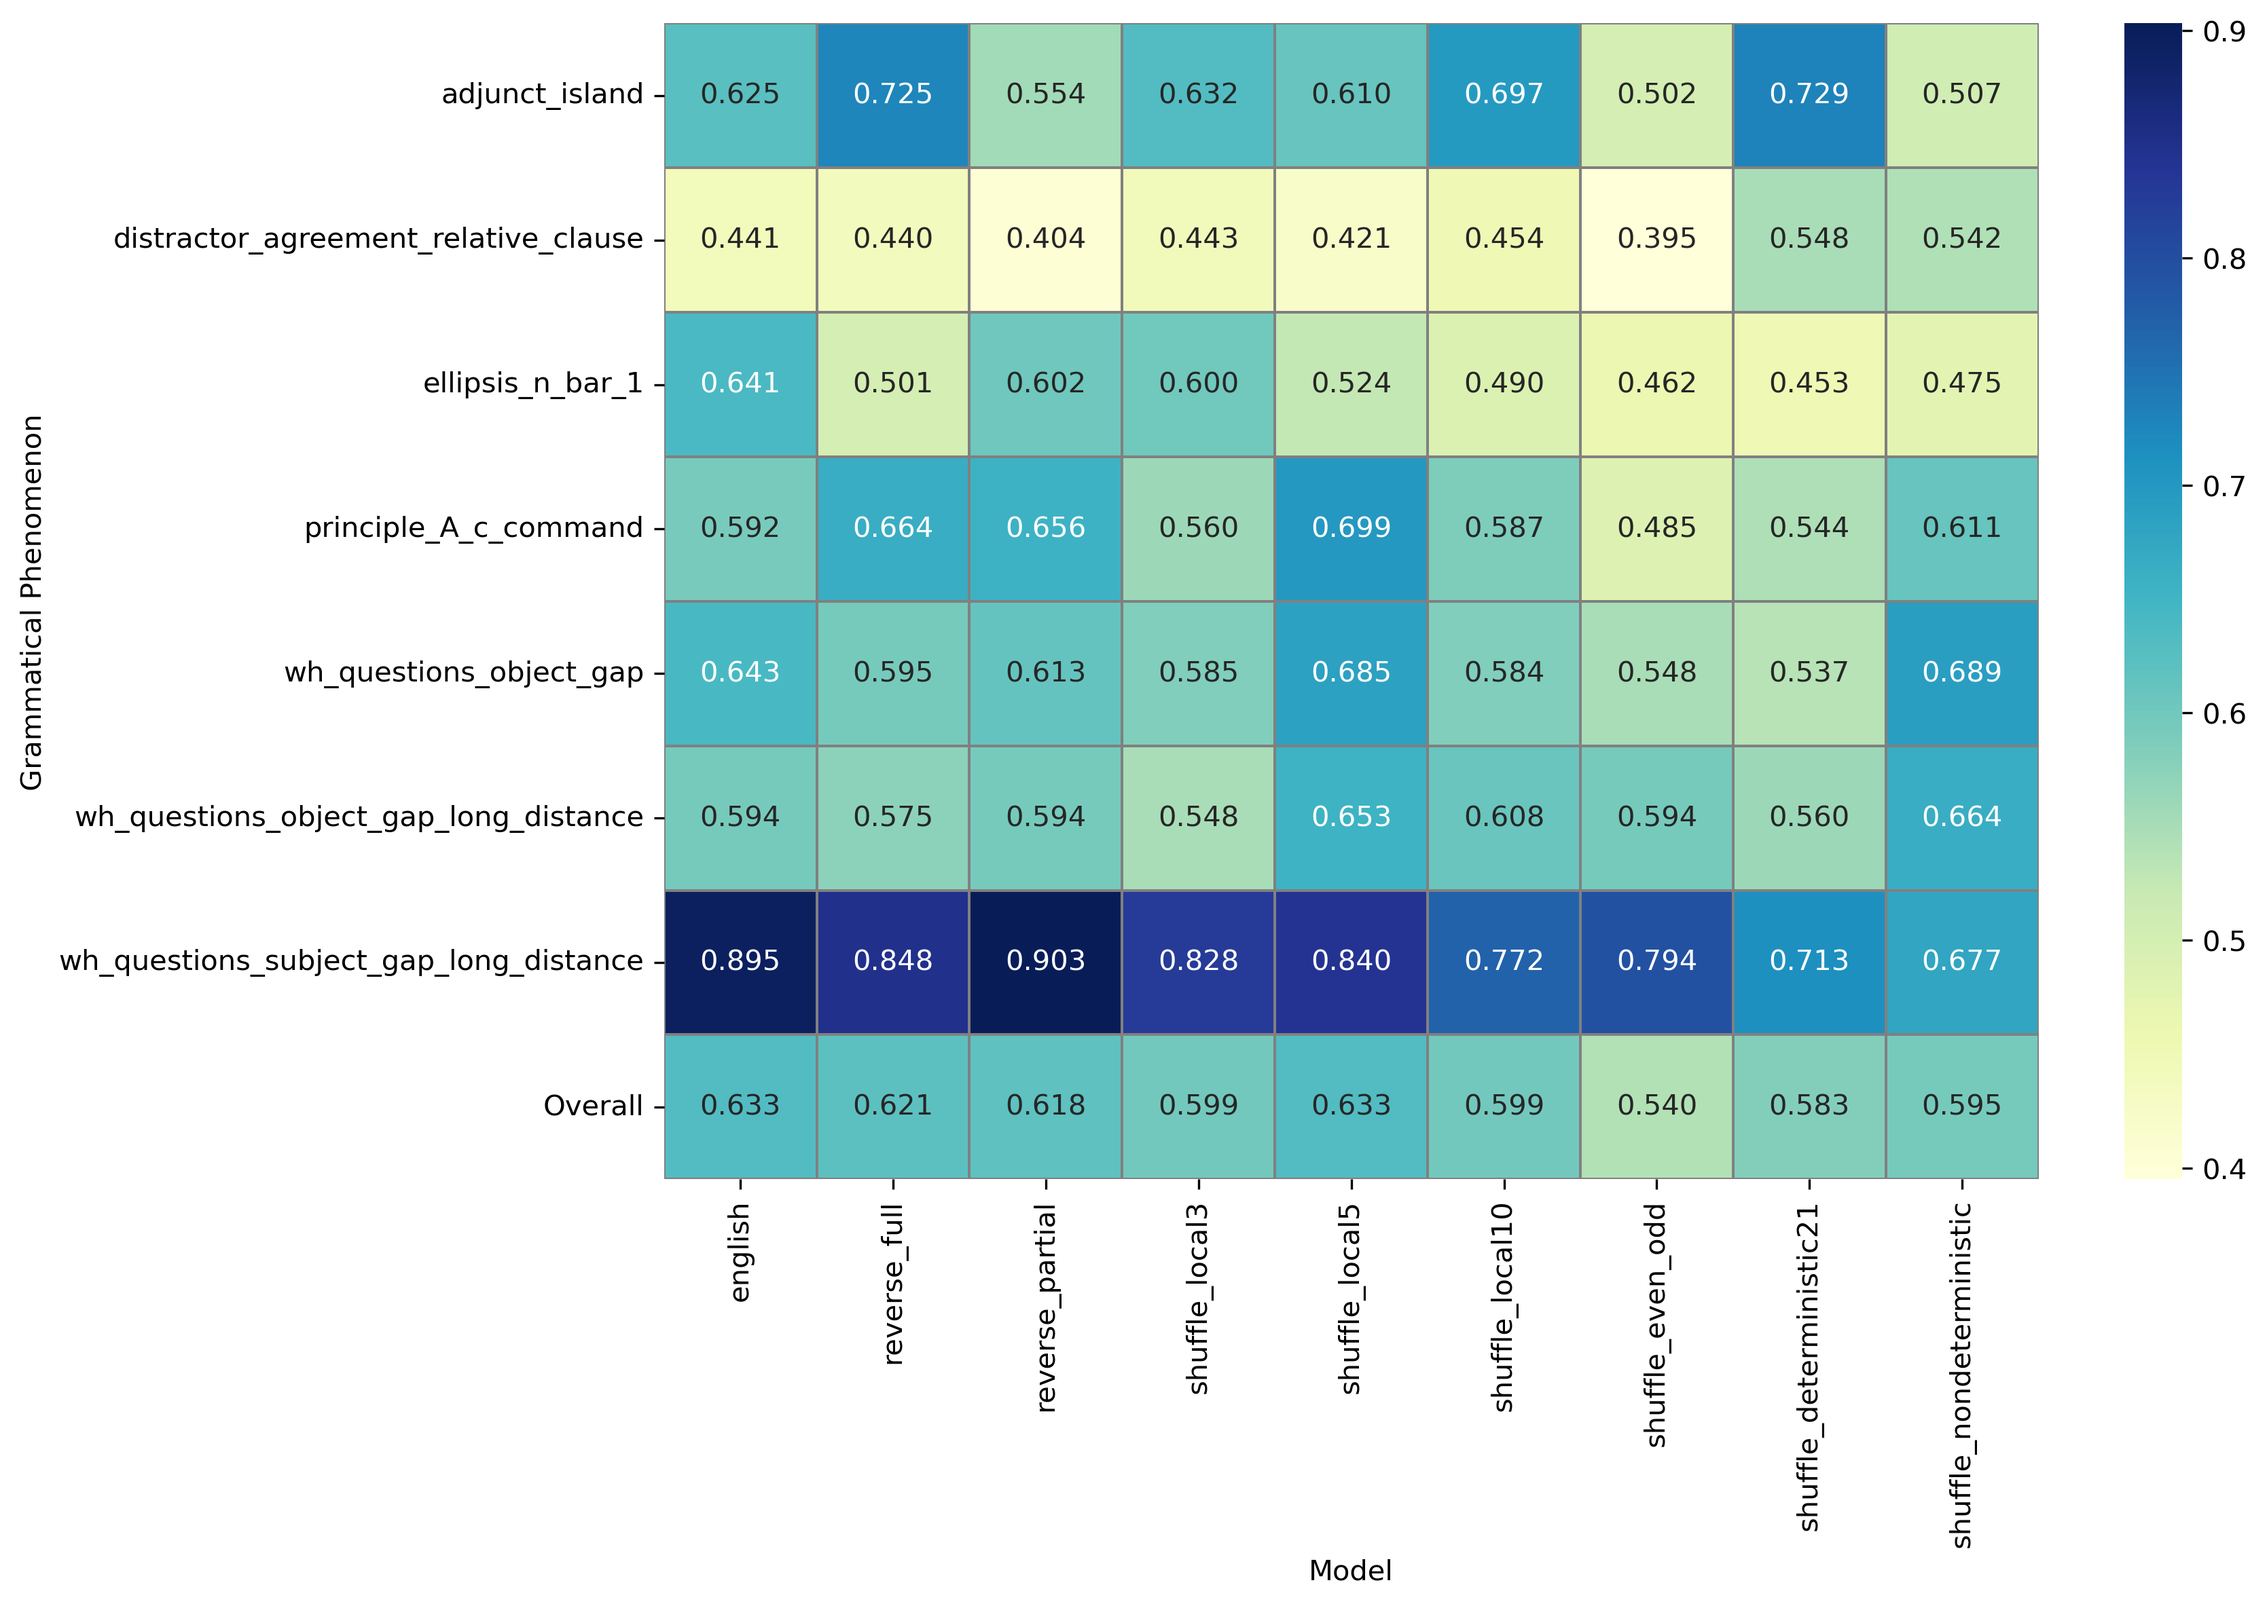
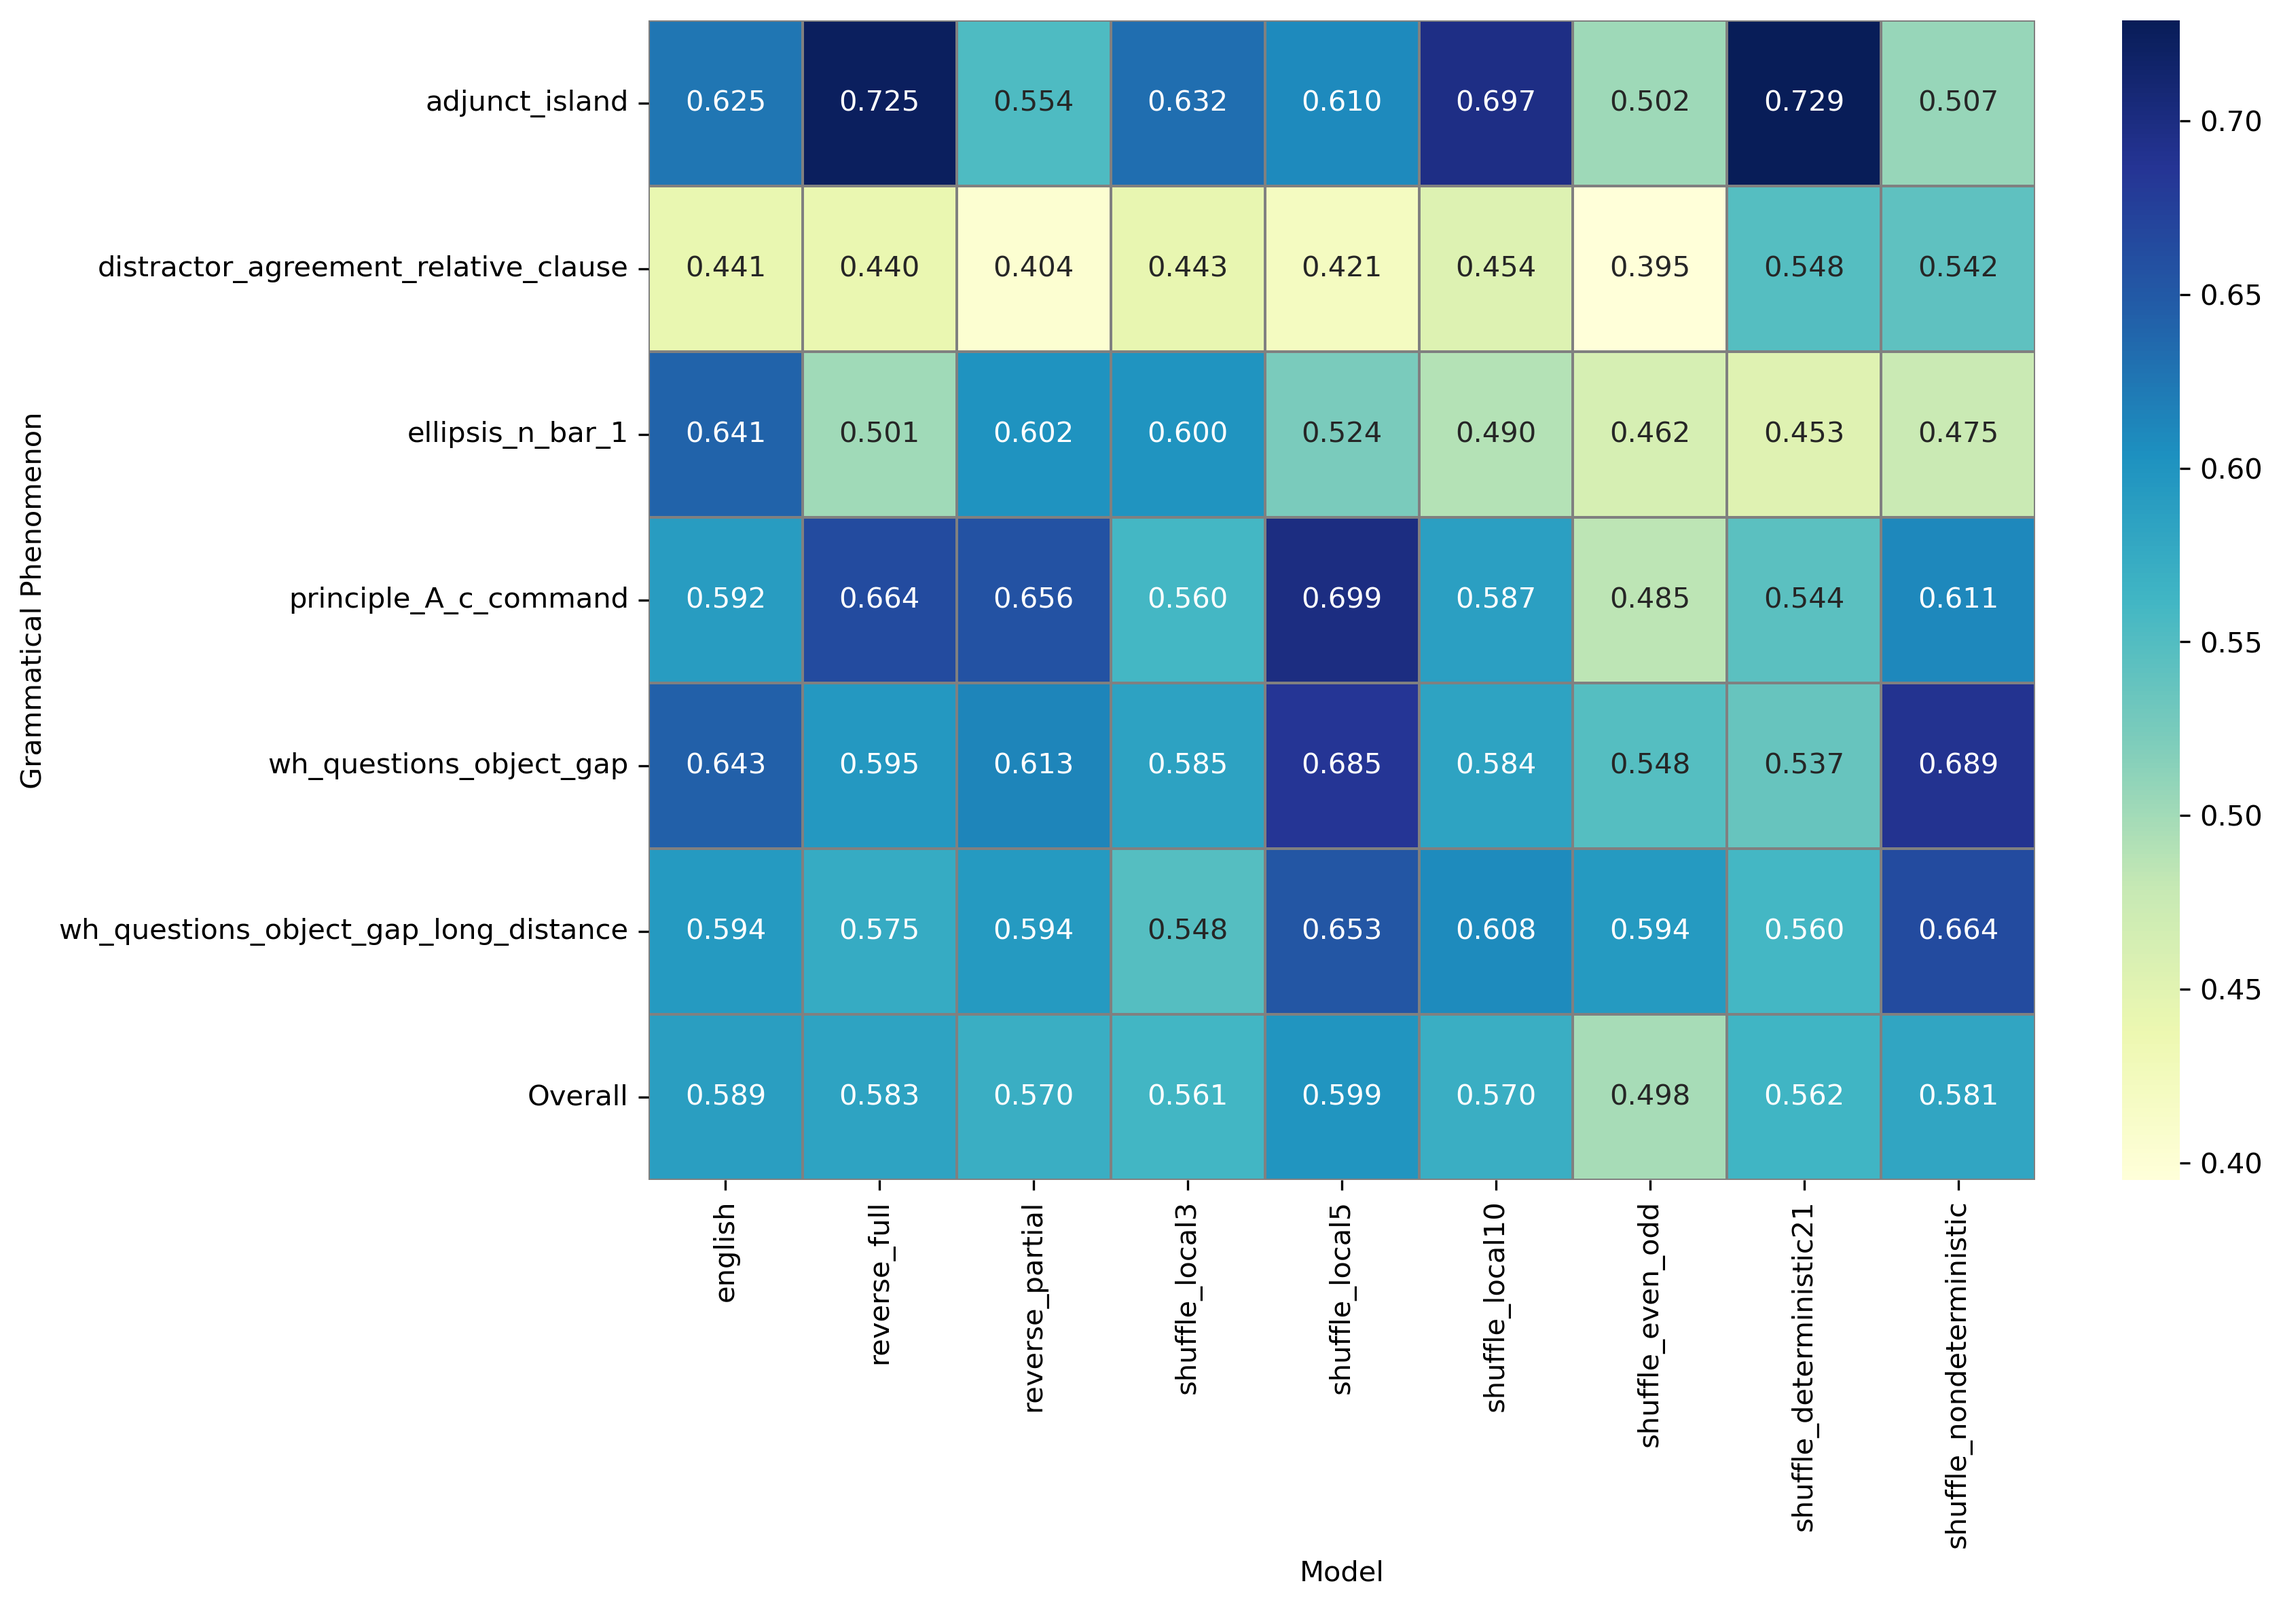
Adjust structural phenomena

diff --git a/gui/static/results.js b/gui/static/results.js
@@ -111,12 +111,13 @@ document.addEventListener('DOMContentLoaded', function() {
             'anaphor_gender_agreement',
             'anaphor_number_agreement',
             'animate_subject_passive',
-            'determiner_noun_agreement_with_adj_2',
-            'irregular_past_participle_adjectives',
+            // 'determiner_noun_agreement_with_adj_2',
+            // 'irregular_past_participle_adjectives',
             // 'distractor_agreement_relative_clause',
+            'determiner_noun_agreement_with_adj_2',
             'existential_there_quantifiers_1',
-            'wh_questions_subject_gap',
-            'wh_questions_subject_gap_long_distance',
+            // 'wh_questions_subject_gap',
+            // 'wh_questions_subject_gap_long_distance',
         ]);
 
         let allXValues = [...new Set(filteredData.map(item => item[xAxisKey]))];

diff --git a/analysis/performance_statistics.py b/analysis/performance_statistics.py
@@ -132,7 +132,6 @@ def main():
         "principle_A_c_command",
         "wh_questions_object_gap",
         "wh_questions_object_gap_long_distance",
-        "wh_questions_subject_gap_long_distance",
     ], output_filename="performance_table_structural.png")
     # percent_non_english_best_model()
 
